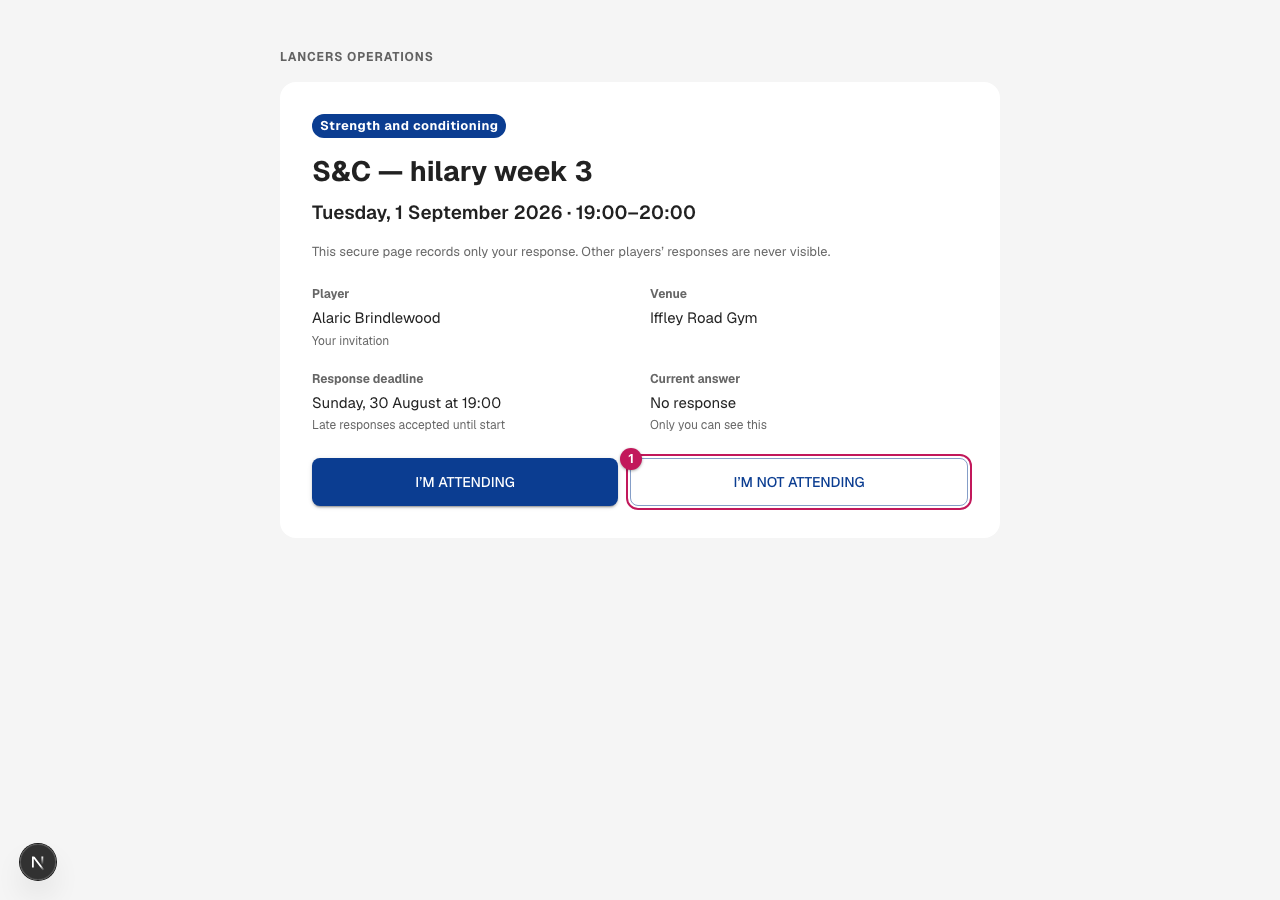
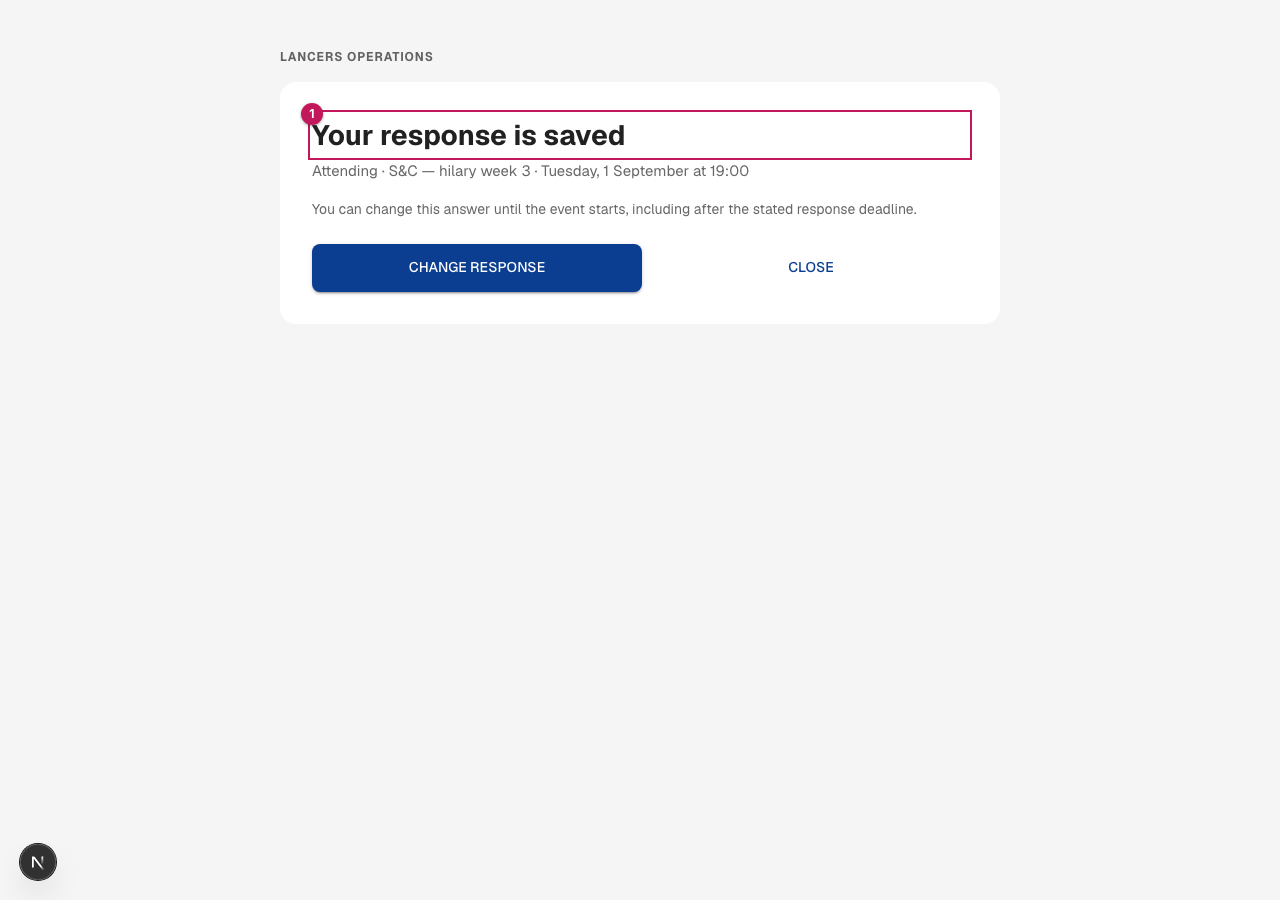
Show the recruit the yes and no pages that already exist
Brian, after two wrong attempts: they do not see the event page. They get a
WhatsApp invite carrying both answers, they tap one there, and they land on the
yes page or the no page - both of which the app already has.

So W11-03 and W11-04 are photographs of the shipped saved state at
/rsvp/[token], one with an attending response and one with a declined one.
/rsvp/[token]'s event view - venue, response deadline, current answer - is the
player's screen, and a recruit never sees it: they were asked one question and
answered it in WhatsApp.

The reason is never asked for and the constraint is not weakened.
rsvp_responses_no_requires_a_reason still makes a non-acceptance without a
reason unsubmittable, checked in the form, on the server and in the database.
What changes is who supplies it: for a recruit the system writes No reason given
and the reason step never runs, because attendance is not mandatory for somebody
who is not a member.

Reaching those pages needed local test data: rsvp_access_tokens is empty in the
seed and the route refuses anything that is not 43 base64url characters, so a
token and a response row were written to the mission database purely to
photograph the running pages. Both are synthetic and local and the ledger says
how to clear them.

W12 is approved.

Claude-Session: https://claude.ai/code/session_014HZAw6wp7JjvAtSVY3oosc

Changed region(s): [[0.2188, 0.0933, 0.75, 0.5911], [0.5938, 0.28, 0.6562, 0.3111], [0.5625, 0.1556, 0.5938, 0.1867]]

diff --git a/missions/intake/M-RECRUITMENT/mockups/W11-run-a-recruitment-event.html b/missions/intake/M-RECRUITMENT/mockups/W11-run-a-recruitment-event.html
@@ -1395,37 +1395,36 @@
         },
         {
           id: "W11-03",
-          title: "What the recruit sees — the shipped RSVP page",
+          title: "The YES page — already in the app",
           disposition: "new",
           drawn: false,
-          blurb: `A photograph of <code>/rsvp/[token]</code>, which ships. It could not be reached before
-         because <code>rsvp_access_tokens</code> is empty in the seed and the route requires a
-         43-character token; one was minted locally for this shoot, so this is the running application
-         answering a real link.`,
+          blurb: `A photograph of the shipped saved state at <code>/rsvp/[token]</code> with an attending
+         response recorded. Brian, 2026-08-31: "They do see the page. They just see the yes page or
+         the no page... It's built in the app already."`,
           deltas: [
-            `<strong>Its own words:</strong> “I'm attending” and “I'm not attending”, under “Your invitation”, with “Current answer · Only you can see this” and “Late responses accepted until start”. Nothing here is drawn`,
-            `<strong>1. Declining leads somewhere that contradicts the recruit rule</strong> — see W11-04`,
+            `<strong>1. The page's own words</strong> — “Your response is saved”, the answer and the event on one line, and the note that it can be changed until the event starts`,
+            `<strong>What differs for a recruit is one thing:</strong> they arrive here straight from the WhatsApp invitation. There is no event page for them — they were asked one question and answered it in WhatsApp`,
           ],
           clockTag: CLOCK,
-          url: "oxfordlancers.example/rsvp/DCiMFeFolh5cF4fTgfS9O1sigM9J0vJHas06RNkYtdw",
-          shotRoute: "/rsvp/DCiMFeFolh5cF4fTgfS9O1sigM9J0vJHas06RNkYtdw",
+          url: "oxfordlancers.example/rsvp/DCiMFeFolh5cF4fTgfS9O1sigM9J0vJHas06RNkYtdw?saved=1",
+          shotRoute: "/rsvp/DCiMFeFolh5cF4fTgfS9O1sigM9J0vJHas06RNkYtdw?saved=1",
           proposedRoute: "/rsvp/…",
         },
         {
           id: "W11-04",
-          title: "Declining demands a reason — and recruits must not be asked",
+          title: "The NO page — and the reason is never asked for",
           disposition: "new",
           drawn: false,
-          blurb: `The step behind “I'm not attending”, photographed. It will not save without a reason: the
-         field is <code>required</code>, the server checks the string again, and the database
-         constrains it a third time.`,
+          blurb: `The same shipped page with a declined response. The recruit never saw a reason step: they
+         tapped No in WhatsApp and arrived here.`,
           deltas: [
-            `<strong>1. This directly contradicts Brian's rule.</strong> <em>“They don't need to give a reason. They do not give any reason.”</em> A recruit is not a member and owes the club nothing, which is the whole never-harsh position`,
-            `<strong>Not resolved here.</strong> Either recruits skip this step, or the page learns who it is talking to. Both change shipped behaviour, so neither is drawn — this screen exists to put the conflict in front of him`,
+            `<strong>1. The database constraint is not weakened.</strong> <code>rsvp_responses_no_requires_a_reason</code> still holds — a non-acceptance without a reason is unsubmittable. What changes is who supplies it: for a recruit the system writes “No reason given” and never asks`,
+            `<strong>2. Changing the answer is the same one tap</strong>, until the event starts`,
+            `<strong>Attendance is not mandatory for somebody who is not a member</strong>, so there is nothing to explain and nothing to chase. Brian: “We never ask them for a reason.”`,
           ],
           clockTag: CLOCK,
-          url: "oxfordlancers.example/rsvp/DCiMFeFolh5cF4fTgfS9O1sigM9J0vJHas06RNkYtdw?step=decline",
-          shotRoute: "/rsvp/DCiMFeFolh5cF4fTgfS9O1sigM9J0vJHas06RNkYtdw?step=decline",
+          url: "oxfordlancers.example/rsvp/DCiMFeFolh5cF4fTgfS9O1sigM9J0vJHas06RNkYtdw?saved=1",
+          shotRoute: "/rsvp/DCiMFeFolh5cF4fTgfS9O1sigM9J0vJHas06RNkYtdw?saved=1",
           proposedRoute: "/rsvp/…",
         },
       ];

diff --git a/missions/intake/M-RECRUITMENT/mockups/proposals/W11-04.js b/missions/intake/M-RECRUITMENT/mockups/proposals/W11-04.js
@@ -2084,28 +2084,38 @@ const addBoardQrButton = () => {
   return qr;
 };
 
-// W11-04 — Declining, and the reason the shipped page demands.
+// W11-04 — The NO page, as it ships, with the reason filled in for them.
 //
-// The step behind "I'm not attending", photographed rather than drawn. It asks
-// for a reason and will not save without one: `REASON_LABEL` is "Reason", the
-// field is `required`, `submitNotAttending` checks the string again, and the
-// database constrains it a third time.
+// Brian, 2026-08-31: "They either have 'accept' or nothing... they should be
+// fine if it's required, and no reason is ever given. It just should be a no,
+// and the 'no reason' field is just going to be put in for them... We never ask
+// them for a reason."
 //
-// For a player that is the domain's rule. For a RECRUIT it contradicts Brian
-// directly — "They don't need to give a reason. They do not give any reason." A
-// recruit is not a member and owes the club nothing, which is the whole
-// never-harsh position.
+// This is the same shipped saved page as W11-03, photographed with a declined
+// response recorded. The recruit was never shown the reason step: they tapped
+// "No" in WhatsApp and arrived here.
 //
-// So this screen exists to put the conflict in front of him rather than to
-// resolve it: either recruits skip this step, or the page learns who it is
-// talking to. Both change shipped behaviour and neither is drawn here.
-const reason = must(
-  document
-    .querySelector('input[name="reason"], textarea[name="reason"]')
-    ?.closest(".MuiFormControl-root, .MuiTextField-root"),
-  "the declining step has no reason field",
+// THE CONSTRAINT IS NOT WEAKENED. `rsvp_responses_no_requires_a_reason` still
+// holds — a non-acceptance without a reason is unsubmittable, checked by the
+// database. What changes is who supplies it: for a recruit the system writes
+// "No reason given" and never asks. Attendance is not mandatory for somebody who
+// is not a member, so there is nothing to explain and nothing to chase.
+//
+// Brian's own copy for this page — "We'll miss seeing you. If you want to
+// change, go back here" — is a later flow and is not drawn over the shipped
+// words here.
+const heading = must(
+  [...document.querySelectorAll("h1, h2, .MuiTypography-root")].find((n) =>
+    /your response is saved/i.test(n.textContent),
+  ),
+  "the saved page is not showing its heading",
 );
-mark(reason, 1);
+mark(heading, 1);
+
+const change = [...document.querySelectorAll("a, button")].find((b) =>
+  /change response/i.test(b.textContent),
+);
+if (change) mark(change, 2);
 
 await settle()
 

diff --git a/missions/intake/M-RECRUITMENT/mockups/proposals/W11-03.js b/missions/intake/M-RECRUITMENT/mockups/proposals/W11-03.js
@@ -2084,30 +2084,33 @@ const addBoardQrButton = () => {
   return qr;
 };
 
-// W11-03 — What the recruit sees: the shipped RSVP page.
+// W11-03 — The YES page, as it ships.
 //
-// Brian, 2026-08-31: "Holy fuck! W11-04, did you just invent this shit? This
-// exists in the app today... They should be using established conventions for
-// how the onboarding goes in the event board. This should not be new stuff.
-// Fucking look it up."
+// Brian, 2026-08-31: "They do see the page. They just see the yes page or the no
+// page: yes, they're registered, or no, they're registered. It needs to go to
+// the page like we have in the app. There's no event page for them. They don't
+// click to go see the event. It's either yes or no, which is already in the app.
+// It's built in the app already."
 //
-// He is right, and the drawn version is deleted. `/rsvp/[token]` ships, and this
-// is a PHOTOGRAPH of it. It could not be reached before because
+// So this is a PHOTOGRAPH of the shipped saved state at `/rsvp/[token]` with an
+// attending response recorded. `SAVED_HEADING` is "Your response is saved" and
+// `SAVED_NOTE` says the answer can be changed until the event starts.
+//
+// WHAT IS DIFFERENT FOR A RECRUIT, and it is one thing: they arrive here
+// directly from the WhatsApp invitation. They never pass through the event page,
+// because they are not being asked to review an event — they were asked one
+// question and answered it in WhatsApp.
+//
 // `rsvp_access_tokens` is empty in the seed and the route requires a
-// 43-character base64url token; one was minted into the local database for this
-// shoot, so what is below is the running application answering a real link.
-//
-// Its own words rather than invented ones: "I'm attending" and "I'm not
-// attending", under "Your invitation", with "Current answer · Only you can see
-// this" and "Late responses accepted until start".
-//
-// WHAT THIS SCREEN PROVES, and it is a conflict rather than a detail: declining
-// from here demands a reason. See W11-04.
-const decline = must(
-  [...document.querySelectorAll("a, button")].find((b) => /not attending/i.test(b.textContent)),
-  "the RSVP page has no Not attending control",
+// 43-character base64url token, so one was minted into the local database and an
+// attending response recorded, purely so the running page could be photographed.
+const heading = must(
+  [...document.querySelectorAll("h1, h2, .MuiTypography-root")].find((n) =>
+    /your response is saved/i.test(n.textContent),
+  ),
+  "the saved page is not showing its heading",
 );
-mark(decline, 1);
+mark(heading, 1);
 
 await settle()
 

diff --git a/missions/intake/M-RECRUITMENT/mockups/src/W11-04.js b/missions/intake/M-RECRUITMENT/mockups/src/W11-04.js
@@ -1,24 +1,34 @@
-// W11-04 — Declining, and the reason the shipped page demands.
+// W11-04 — The NO page, as it ships, with the reason filled in for them.
 //
-// The step behind "I'm not attending", photographed rather than drawn. It asks
-// for a reason and will not save without one: `REASON_LABEL` is "Reason", the
-// field is `required`, `submitNotAttending` checks the string again, and the
-// database constrains it a third time.
+// Brian, 2026-08-31: "They either have 'accept' or nothing... they should be
+// fine if it's required, and no reason is ever given. It just should be a no,
+// and the 'no reason' field is just going to be put in for them... We never ask
+// them for a reason."
 //
-// For a player that is the domain's rule. For a RECRUIT it contradicts Brian
-// directly — "They don't need to give a reason. They do not give any reason." A
-// recruit is not a member and owes the club nothing, which is the whole
-// never-harsh position.
+// This is the same shipped saved page as W11-03, photographed with a declined
+// response recorded. The recruit was never shown the reason step: they tapped
+// "No" in WhatsApp and arrived here.
 //
-// So this screen exists to put the conflict in front of him rather than to
-// resolve it: either recruits skip this step, or the page learns who it is
-// talking to. Both change shipped behaviour and neither is drawn here.
-const reason = must(
-  document
-    .querySelector('input[name="reason"], textarea[name="reason"]')
-    ?.closest(".MuiFormControl-root, .MuiTextField-root"),
-  "the declining step has no reason field",
+// THE CONSTRAINT IS NOT WEAKENED. `rsvp_responses_no_requires_a_reason` still
+// holds — a non-acceptance without a reason is unsubmittable, checked by the
+// database. What changes is who supplies it: for a recruit the system writes
+// "No reason given" and never asks. Attendance is not mandatory for somebody who
+// is not a member, so there is nothing to explain and nothing to chase.
+//
+// Brian's own copy for this page — "We'll miss seeing you. If you want to
+// change, go back here" — is a later flow and is not drawn over the shipped
+// words here.
+const heading = must(
+  [...document.querySelectorAll("h1, h2, .MuiTypography-root")].find((n) =>
+    /your response is saved/i.test(n.textContent),
+  ),
+  "the saved page is not showing its heading",
 );
-mark(reason, 1);
+mark(heading, 1);
+
+const change = [...document.querySelectorAll("a, button")].find((b) =>
+  /change response/i.test(b.textContent),
+);
+if (change) mark(change, 2);
 
 await settle();

diff --git a/missions/intake/M-RECRUITMENT/mockups/src/W11-03.js b/missions/intake/M-RECRUITMENT/mockups/src/W11-03.js
@@ -1,26 +1,29 @@
-// W11-03 — What the recruit sees: the shipped RSVP page.
+// W11-03 — The YES page, as it ships.
 //
-// Brian, 2026-08-31: "Holy fuck! W11-04, did you just invent this shit? This
-// exists in the app today... They should be using established conventions for
-// how the onboarding goes in the event board. This should not be new stuff.
-// Fucking look it up."
+// Brian, 2026-08-31: "They do see the page. They just see the yes page or the no
+// page: yes, they're registered, or no, they're registered. It needs to go to
+// the page like we have in the app. There's no event page for them. They don't
+// click to go see the event. It's either yes or no, which is already in the app.
+// It's built in the app already."
 //
-// He is right, and the drawn version is deleted. `/rsvp/[token]` ships, and this
-// is a PHOTOGRAPH of it. It could not be reached before because
+// So this is a PHOTOGRAPH of the shipped saved state at `/rsvp/[token]` with an
+// attending response recorded. `SAVED_HEADING` is "Your response is saved" and
+// `SAVED_NOTE` says the answer can be changed until the event starts.
+//
+// WHAT IS DIFFERENT FOR A RECRUIT, and it is one thing: they arrive here
+// directly from the WhatsApp invitation. They never pass through the event page,
+// because they are not being asked to review an event — they were asked one
+// question and answered it in WhatsApp.
+//
 // `rsvp_access_tokens` is empty in the seed and the route requires a
-// 43-character base64url token; one was minted into the local database for this
-// shoot, so what is below is the running application answering a real link.
-//
-// Its own words rather than invented ones: "I'm attending" and "I'm not
-// attending", under "Your invitation", with "Current answer · Only you can see
-// this" and "Late responses accepted until start".
-//
-// WHAT THIS SCREEN PROVES, and it is a conflict rather than a detail: declining
-// from here demands a reason. See W11-04.
-const decline = must(
-  [...document.querySelectorAll("a, button")].find((b) => /not attending/i.test(b.textContent)),
-  "the RSVP page has no Not attending control",
+// 43-character base64url token, so one was minted into the local database and an
+// attending response recorded, purely so the running page could be photographed.
+const heading = must(
+  [...document.querySelectorAll("h1, h2, .MuiTypography-root")].find((n) =>
+    /your response is saved/i.test(n.textContent),
+  ),
+  "the saved page is not showing its heading",
 );
-mark(decline, 1);
+mark(heading, 1);
 
 await settle();

diff --git a/missions/intake/M-RECRUITMENT/mockups/proposals/W11-02.js b/missions/intake/M-RECRUITMENT/mockups/proposals/W11-02.js
@@ -2118,6 +2118,6 @@ recruits.textContent = recruits.textContent.replace(/^RECRUITS/i, "ALL ACTIVE RE
 mark(players, 1);
 mark(recruits, 2);
 
-await settle()
+await settle();
 
 })()

diff --git a/missions/intake/M-RECRUITMENT/workflows/W11-run-a-recruitment-event.md b/missions/intake/M-RECRUITMENT/workflows/W11-run-a-recruitment-event.md
@@ -71,53 +71,54 @@ event flow, we shouldn't be adding new shit to it. The event page should be
 acting identically."_ The two-ladder rule belongs in `W10`, where it is
 configured.
 
-## What the recruit sees — the shipped page, not a drawing
+## What the recruit sees — the yes page or the no page, and nothing else
 
-Brian, 2026-08-31: _"Holy fuck! W11-04, did you just invent this shit? This
-exists in the app today... They should be using established conventions for how
-the onboarding goes in the event board. This should not be new stuff. Fucking
-look it up."_
+Brian, 2026-08-31, after two wrong attempts at this: _"They do see the page. They
+just see the yes page or the no page: yes, they're registered, or no, they're
+registered. It needs to go to the page like we have in the app. There's no event
+page for them. They don't click to go see the event. It's either yes or no, which
+is already in the app. It's built in the app already."_
 
-He was right. The drawn RSVP page is deleted and replaced with a **photograph of
-`/rsvp/[token]`**, which ships. It could not be reached before because
-`rsvp_access_tokens` is empty in the seed and the route requires a 43-character
-base64url token; one was minted into the local database for the shoot.
+So the journey is:
 
-The invented WhatsApp-invitation screen is deleted outright, for the same reason
-`W10-03` was: a template's body lives in Meta's tooling, not in this repository,
-so drawing its copy was inventing.
+1. **A WhatsApp message** carrying the invitation and the two answers.
+2. They tap one **in WhatsApp**.
+3. They land on **the shipped saved page** — `Your response is saved`, the answer
+   and the event on one line, and `Change response`.
 
-| Screen   | What it is                                                          |
-| -------- | ------------------------------------------------------------------- |
-| `W11-03` | `/rsvp/[token]` as it ships — "I'm attending" / "I'm not attending" |
-| `W11-04` | The declining step behind it                                        |
+**There is no event page for a recruit.** `/rsvp/[token]`'s event view — venue,
+response deadline, current answer — is the _player's_ screen. A recruit is not
+asked to review an event; they were asked one question and answered it in
+WhatsApp.
 
-The page's own words are `Your invitation`, `Venue`, `Response deadline` with
-`Late responses accepted until start`, and `Current answer` with
-`Only you can see this`.
+| Screen   | What it is                                            |
+| -------- | ----------------------------------------------------- |
+| `W11-03` | The yes page: `Your response is saved · Attending`    |
+| `W11-04` | The no page: `Your response is saved · Not attending` |
 
-### The conflict this exposed, and it is Brian's to settle
+Both are photographs of the running application. `rsvp_access_tokens` is empty in
+the seed and the route requires a 43-character base64url token, so one was minted
+into the local database and each response recorded in turn, purely so the shipped
+pages could be photographed.
 
-**Declining demands a reason.** `REASON_LABEL` is "Reason", the field is
-`required`, `submitNotAttending` checks the string again and the database
-constrains it a third time. `DECLINE_PROMPT` is _"Choose a reason before saving
-Not attending."_
+### A reason is never asked for, and the constraint still holds
 
-That is the domain's rule for a player. For a **recruit** it contradicts Brian
-directly — _"They don't need to give a reason. They do not give any reason."_ A
-recruit is not a member and owes the club nothing, which is the whole never-harsh
-position.
+`rsvp_responses_no_requires_a_reason` makes a non-acceptance without a reason
+unsubmittable — checked in the form, again on the server, and again by the
+database. That is the domain's rule and **it is not weakened**.
 
-Either recruits skip that step, or the page learns who it is talking to. Both
-change shipped behaviour, so **neither is drawn**; `W11-04` exists to put the
-conflict in front of him.
+What changes is **who supplies it**. For a recruit the system writes
+`No reason given` and the reason step never runs. Brian: _"they should be fine if
+it's required, and no reason is ever given... the 'no reason' field is just going
+to be put in for them... We never ask them for a reason."_
 
-### What a recruit sees afterwards
+Attendance is not mandatory for somebody who is not a member, so there is nothing
+to explain and nothing to chase. This is the never-harsh rule reaching the RSVP
+surface.
 
-Not drawn either. The shipped page has its own saved state (`SAVED_HEADING` is
-_"Your response is saved"_), and whether a recruit should see anything beyond it
-is the question Brian left open: _"they don't see an events page... or maybe they
-do see other events, but it should be yes or no."_ Unresolved.
+**Later, and not drawn:** Brian's copy for the declined page — _"We'll miss
+seeing you. If you want to change, go back here."_ The shipped words stand until
+that flow is designed.
 
 ## The two ladders are configured in W10
 
